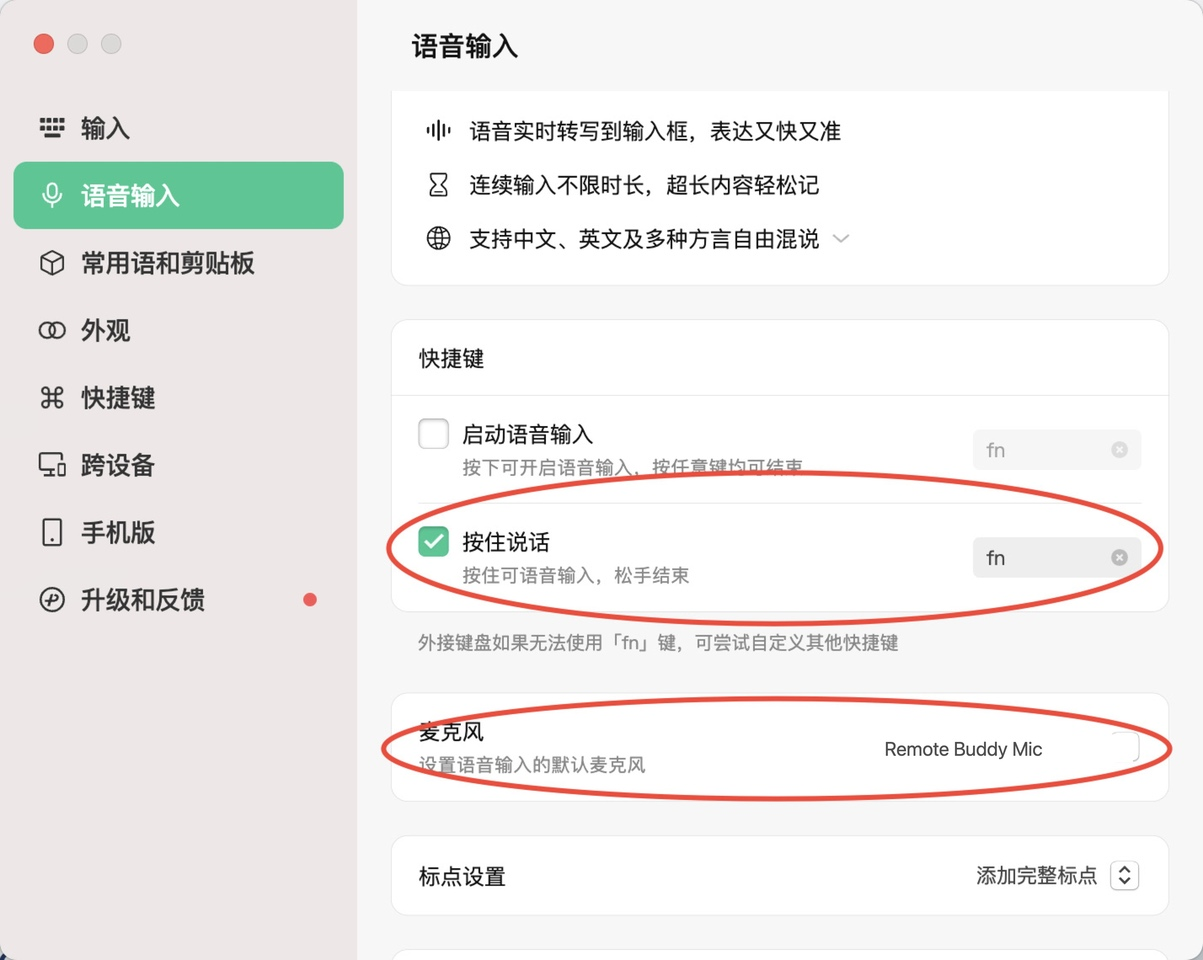
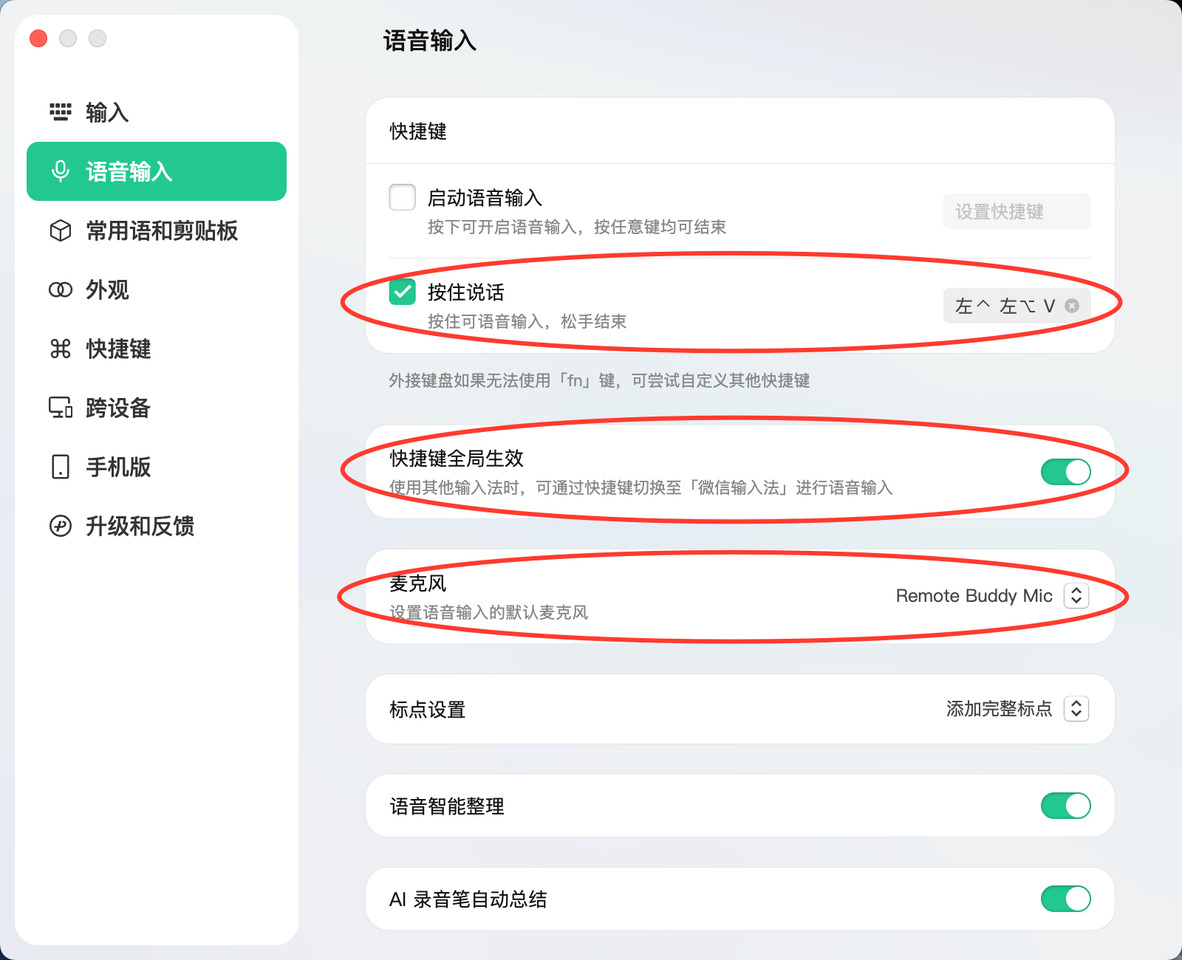
chore(assets): update Doubao and WeType onboarding screenshots

diff --git a/Tests/RemoteBuddyTests/ProductBoundaryTests.swift b/Tests/RemoteBuddyTests/ProductBoundaryTests.swift
@@ -10,12 +10,14 @@ struct ProductBoundaryTests {
             .deletingLastPathComponent().deletingLastPathComponent().appendingPathComponent("Resources")
         let bundle = try #require(Bundle(path: resources.path))
         let paired = [
-            "doubao-menu", "doubao-settings",
-            "weixin-input-menu", "weixin-input-settings",
             "bageshuo-menu", "bageshuo-settings", "bageshuo-input-microphone",
         ]
-        let microphone = ["doubao-input-microphone", "weixin-input-microphone", "voicebuddy-setting-fn", "voicebuddy-setting-mic"]
-        for name in paired + microphone {
+        let lightOnly = [
+            "doubao-menu", "doubao-settings", "doubao-input-microphone",
+            "weixin-input-menu", "weixin-input-settings", "weixin-input-microphone",
+            "voicebuddy-setting-fn", "voicebuddy-setting-mic",
+        ]
+        for name in paired + lightOnly {
             let url = try #require(RemoteBuddyResourceBundle.onboardingImageURL(named: name, isDark: false, in: bundle))
             #expect(url.lastPathComponent == "\(name)-light.jpg")
             let image = try #require(NSImage(contentsOf: url))

diff --git a/scripts/verify-onboarding-resources.py b/scripts/verify-onboarding-resources.py
@@ -105,7 +105,12 @@ for name in sorted(names):
     files.append(light)
     dark = image_path(name, 'dark')
     # New local captures are light only; the view falls back to that real capture.
-    if dark is not None or name not in {'doubao-input-microphone', 'weixin-input-microphone', 'voicebuddy-setting-fn', 'voicebuddy-setting-mic', 'macos-dictation-enable', 'macos-dictation-shortcut', 'macos-dictation-microphone'}:
+    if dark is not None or name not in {
+        'doubao-menu', 'doubao-settings', 'doubao-input-microphone',
+        'weixin-input-menu', 'weixin-input-settings', 'weixin-input-microphone',
+        'voicebuddy-setting-fn', 'voicebuddy-setting-mic',
+        'macos-dictation-enable', 'macos-dictation-shortcut', 'macos-dictation-microphone',
+    }:
         assert dark is not None, f'Missing dark screenshot: {name}'
         files.append(dark)
 # Product catalog and button-mapping resources are required even while adapters remain planned.
